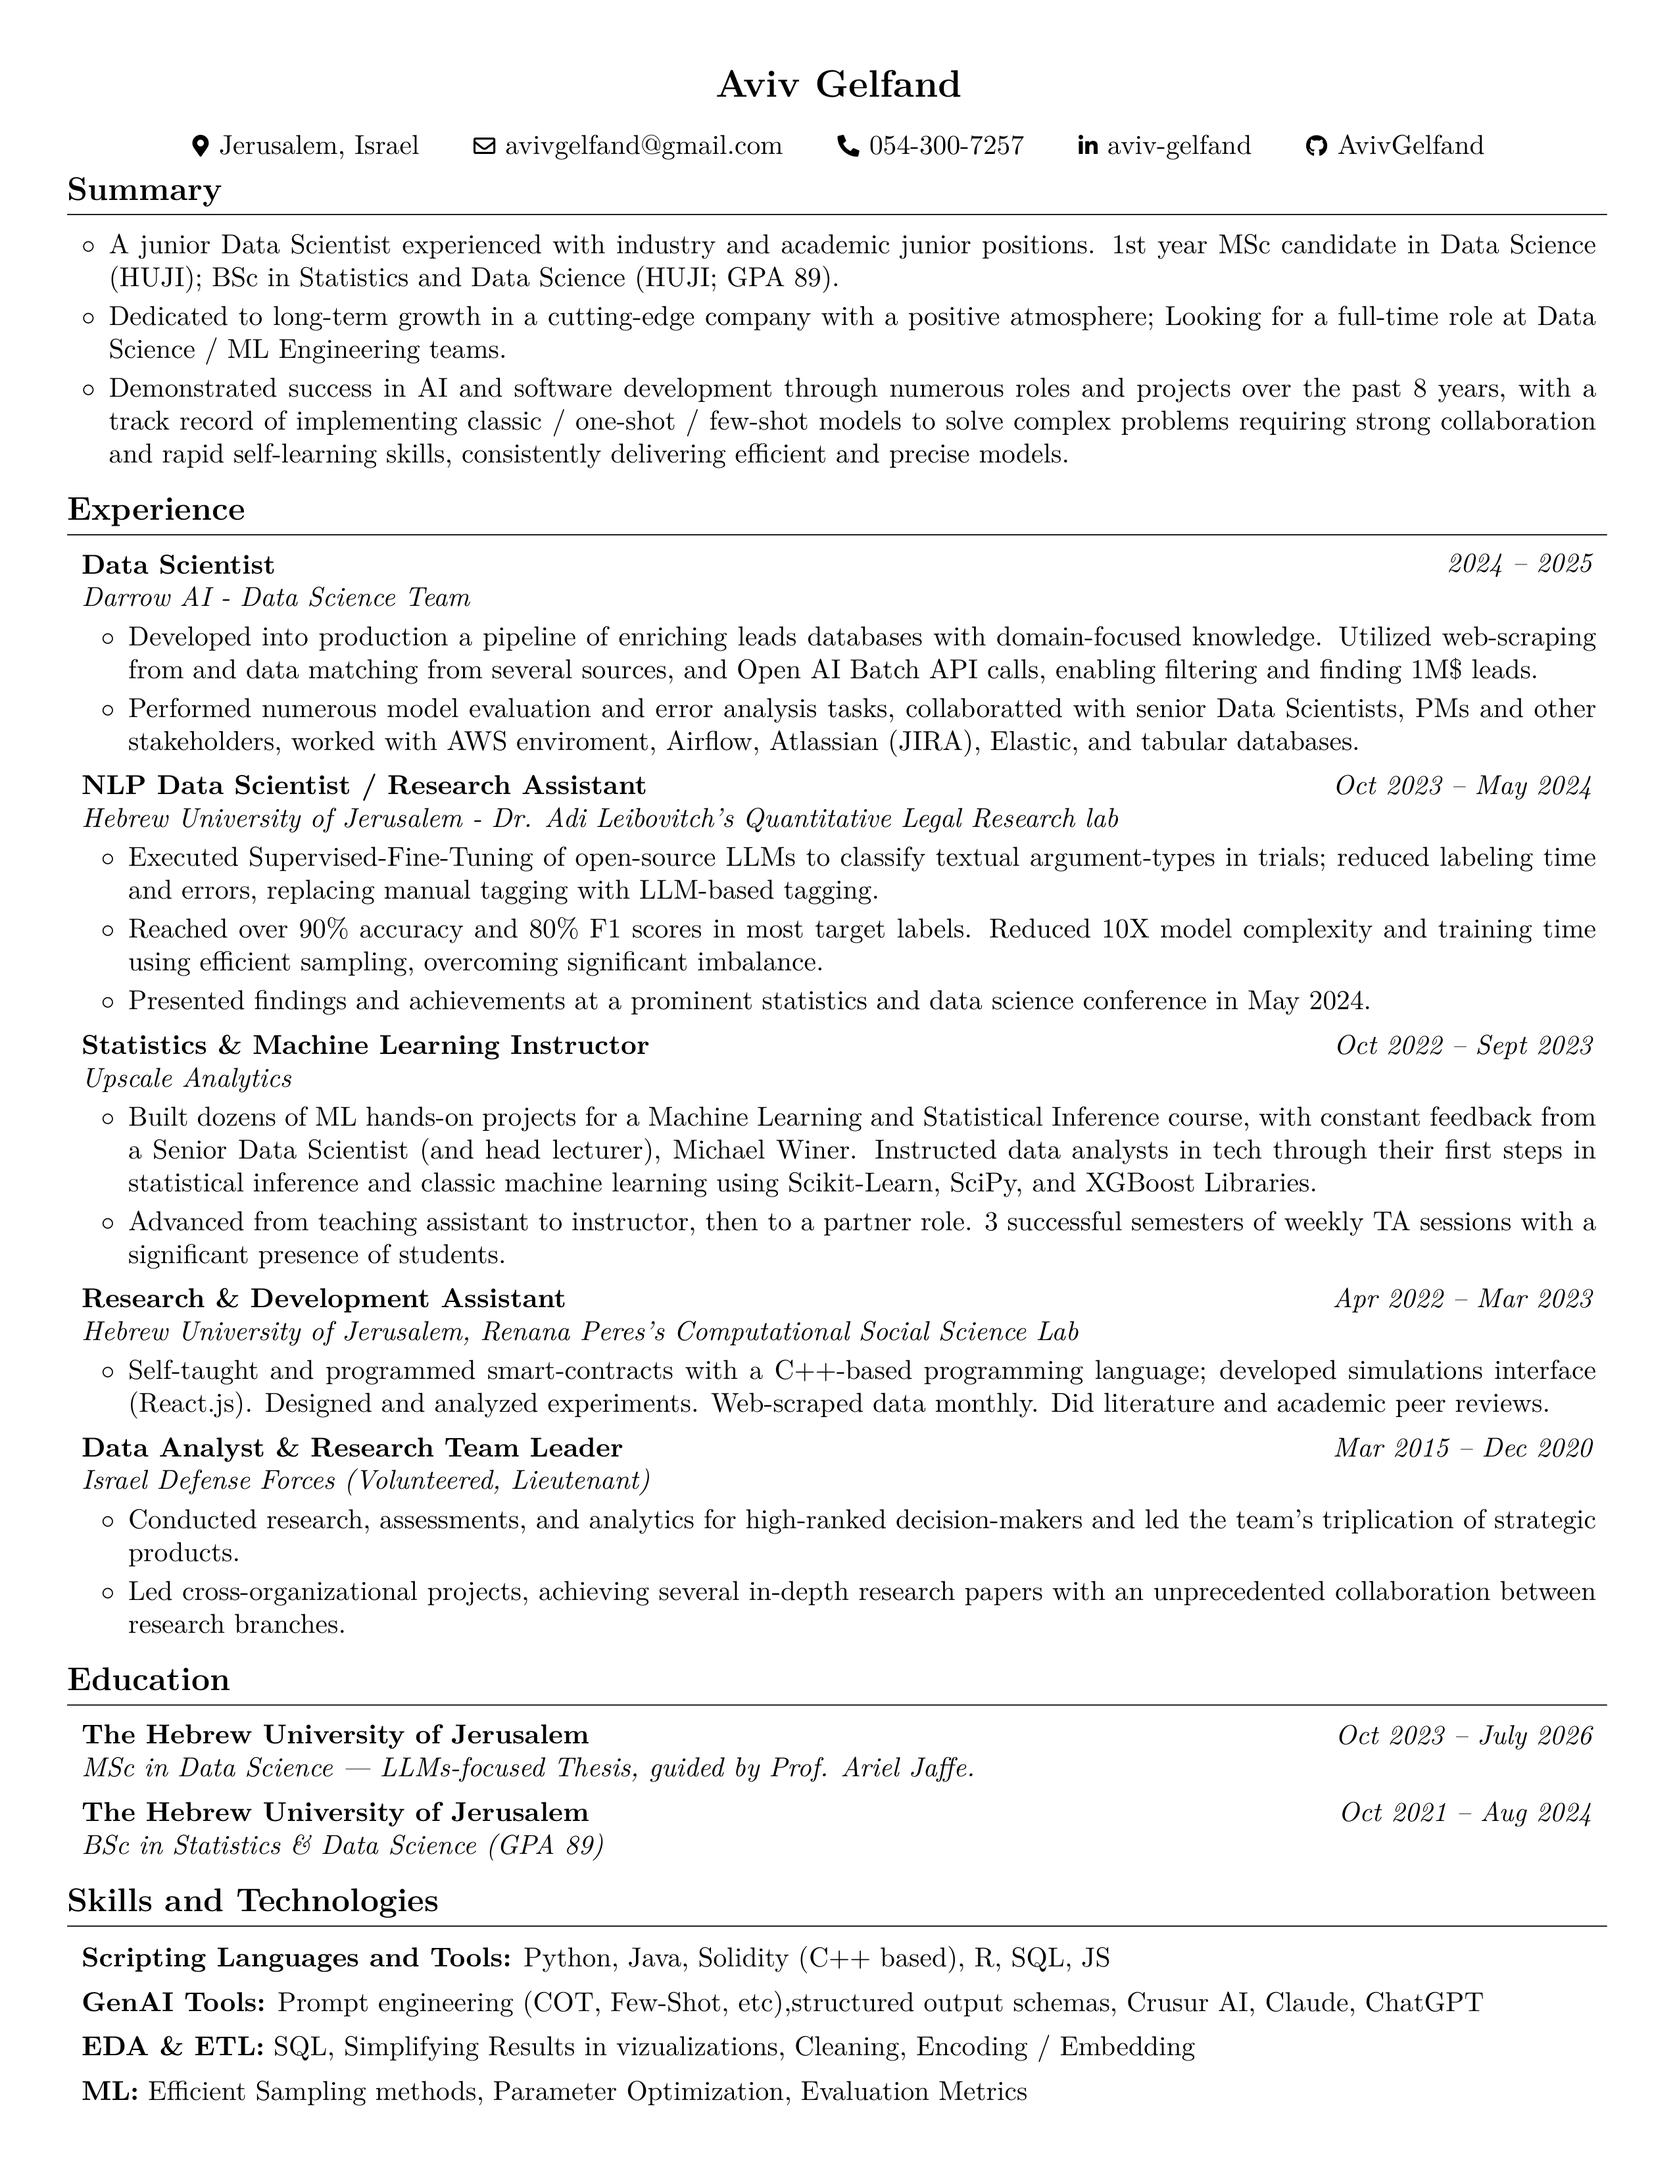
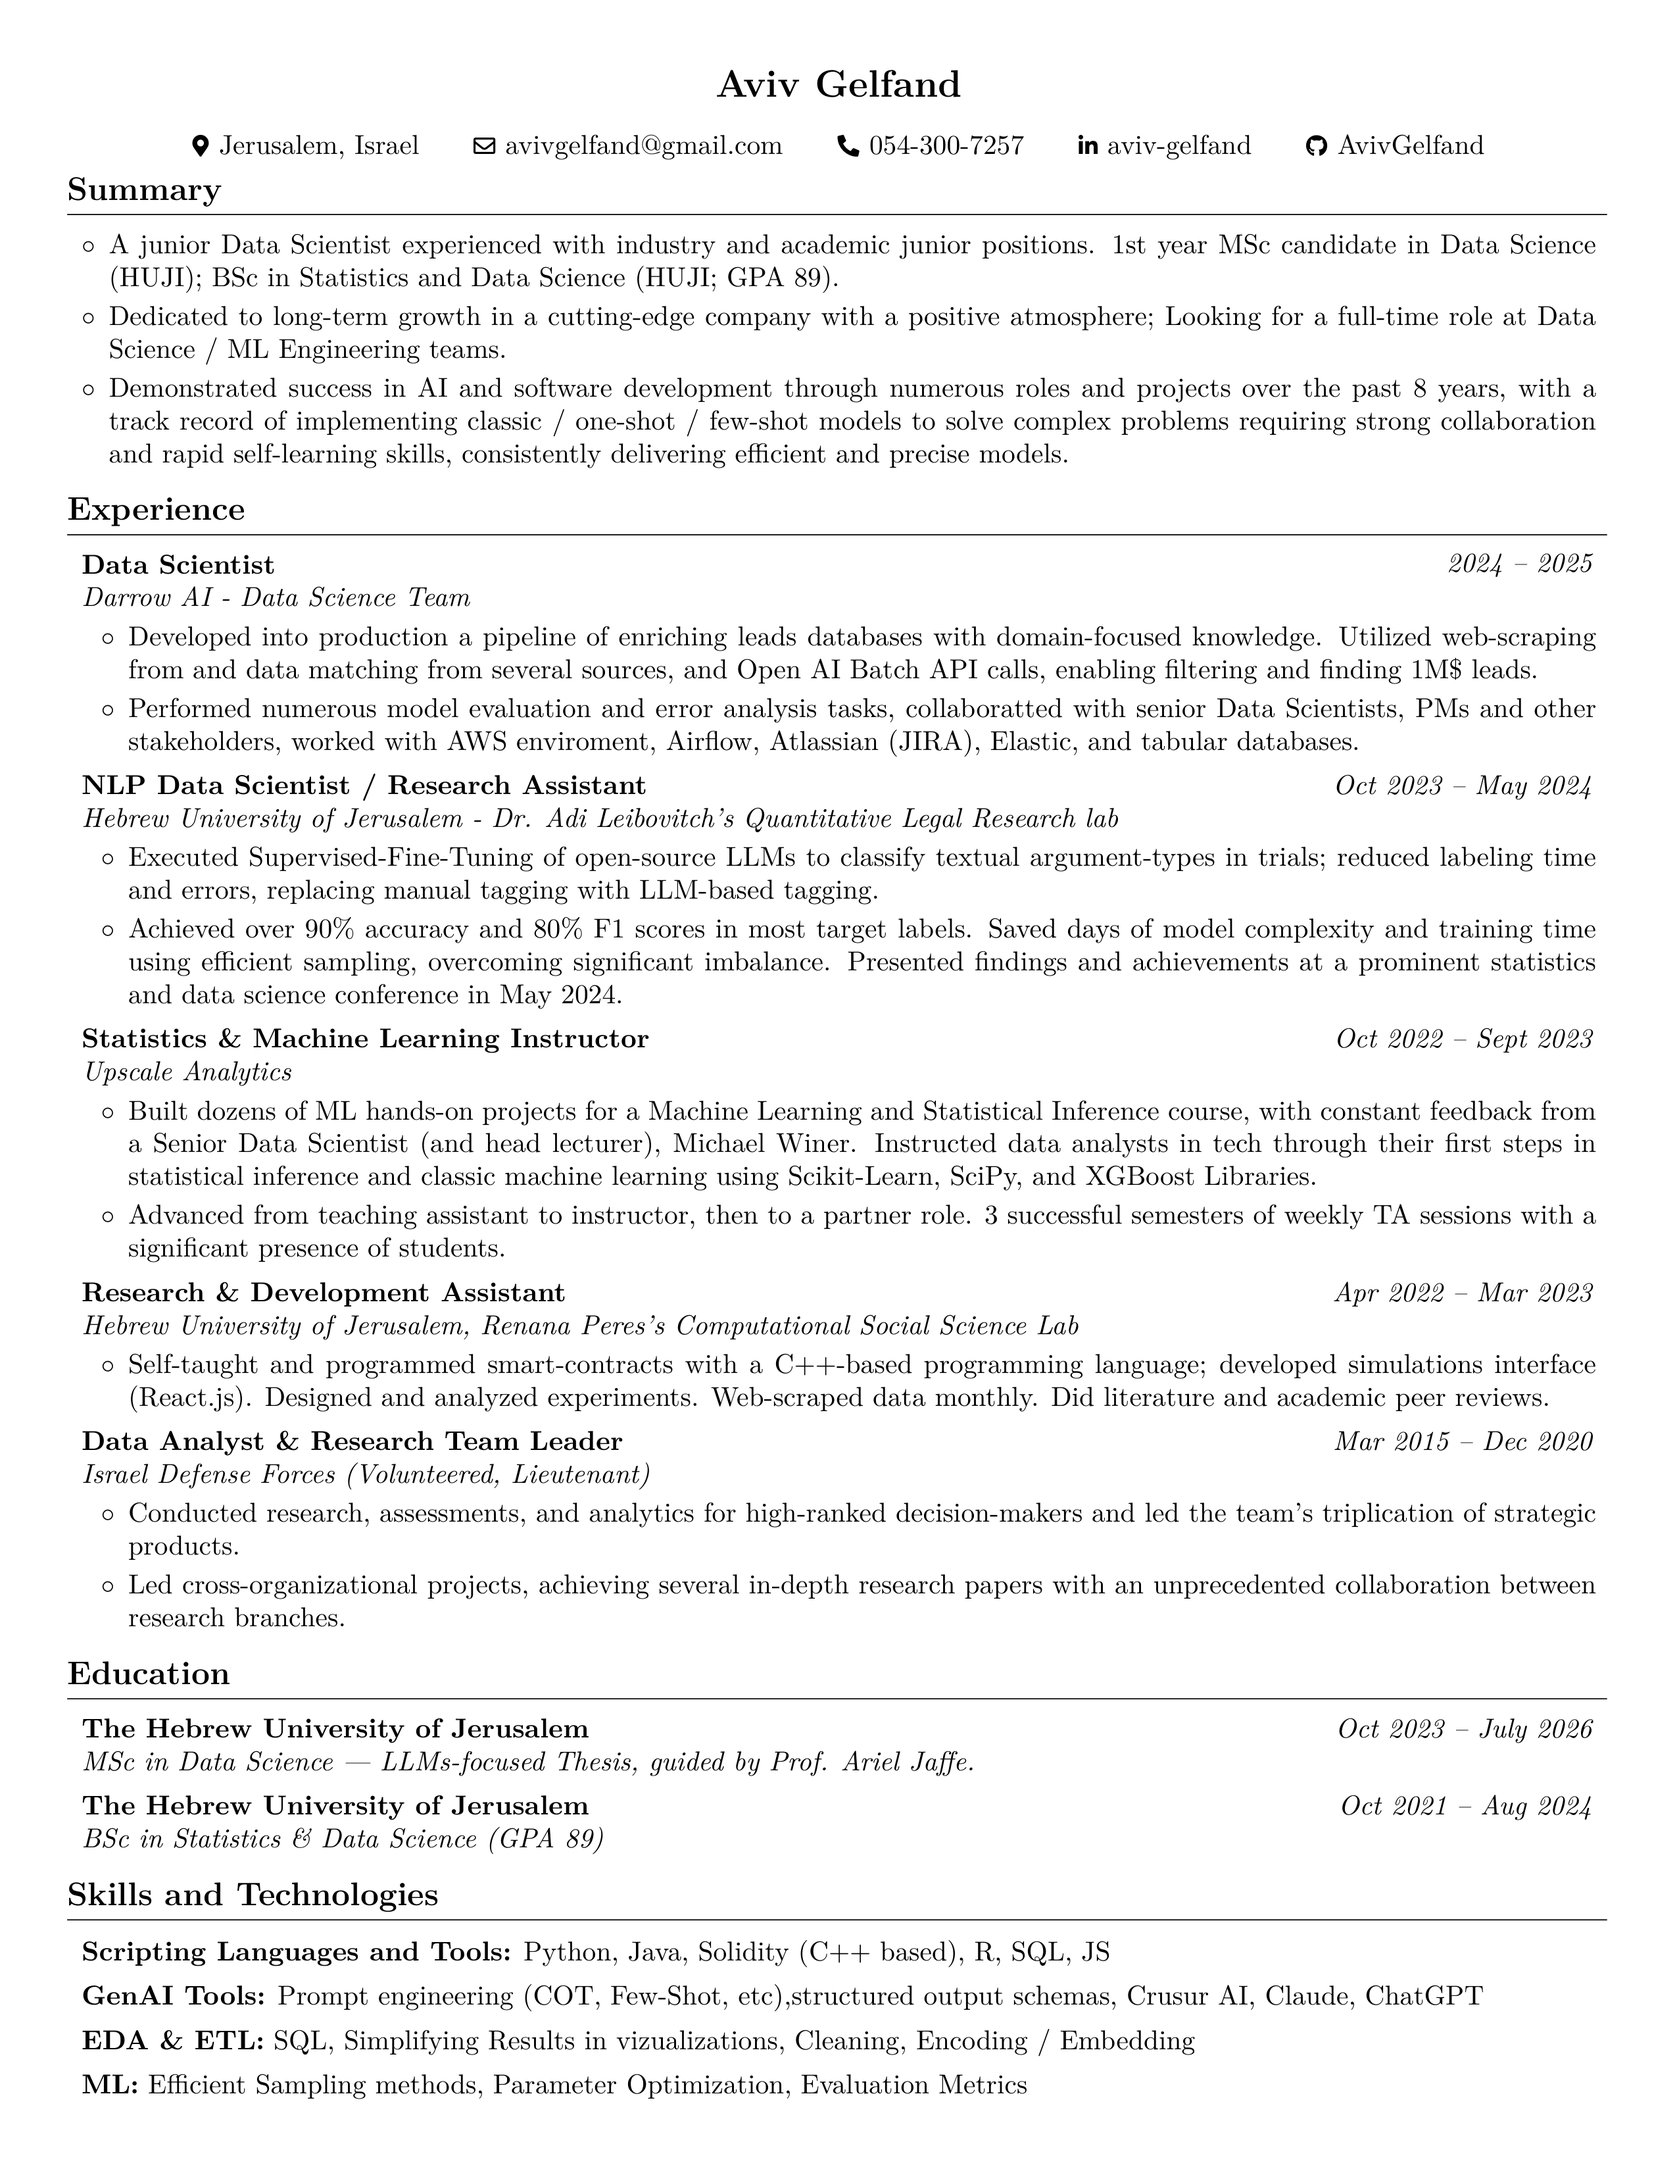
Render the latest CV

diff --git a/Aviv_Gelfand_CV.html b/Aviv_Gelfand_CV.html
@@ -57,8 +57,7 @@
         <ul>
         <li>Oct 2023 – May 2024</li>
         <li>Executed Supervised-Fine-Tuning of open-source LLMs to classify textual argument-types in trials; reduced labeling time and errors, replacing manual tagging with LLM-based tagging.</li>
-        <li>Reached over 90% accuracy and 80% F1 scores in most target labels. Reduced 10X model complexity and training time using efficient sampling, overcoming significant imbalance.</li>
-        <li>Presented findings and achievements at a prominent statistics and data science conference in May 2024.</li>
+        <li>Achieved over 90% accuracy and 80% F1 scores in most target labels. Saved days of model complexity and training time using efficient sampling, overcoming significant imbalance. Presented findings and achievements at a prominent statistics and data science conference in May 2024.</li>
         </ul>
         <h2>Upscale Analytics, Statistics &amp; Machine Learning Instructor</h2>
         <ul>

diff --git a/Aviv_Gelfand_CV.tex b/Aviv_Gelfand_CV.tex
@@ -229,8 +229,7 @@
         \begin{onecolentry}
             \begin{highlights}
                 \item Executed Supervised-Fine-Tuning of open-source LLMs to classify textual argument-types in trials; reduced labeling time and errors, replacing manual tagging with LLM-based tagging.
-                \item Reached over 90\% accuracy and 80\% F1 scores in most target labels. Reduced 10X model complexity and training time using efficient sampling, overcoming significant imbalance.
-                \item Presented findings and achievements at a prominent statistics and data science conference in May 2024.
+                \item Achieved over 90\% accuracy and 80\% F1 scores in most target labels. Saved days of model complexity and training time using efficient sampling, overcoming significant imbalance. Presented findings and achievements at a prominent statistics and data science conference in May 2024.
             \end{highlights}
         \end{onecolentry}
 

diff --git a/README.md b/README.md
@@ -26,8 +26,7 @@
 
 - Oct 2023 – May 2024
 - Executed Supervised-Fine-Tuning of open-source LLMs to classify textual argument-types in trials; reduced labeling time and errors, replacing manual tagging with LLM-based tagging.
-- Reached over 90% accuracy and 80% F1 scores in most target labels. Reduced 10X model complexity and training time using efficient sampling, overcoming significant imbalance.
-- Presented findings and achievements at a prominent statistics and data science conference in May 2024.
+- Achieved over 90% accuracy and 80% F1 scores in most target labels. Saved days of model complexity and training time using efficient sampling, overcoming significant imbalance. Presented findings and achievements at a prominent statistics and data science conference in May 2024.
 
 ## Upscale Analytics, Statistics & Machine Learning Instructor
 
